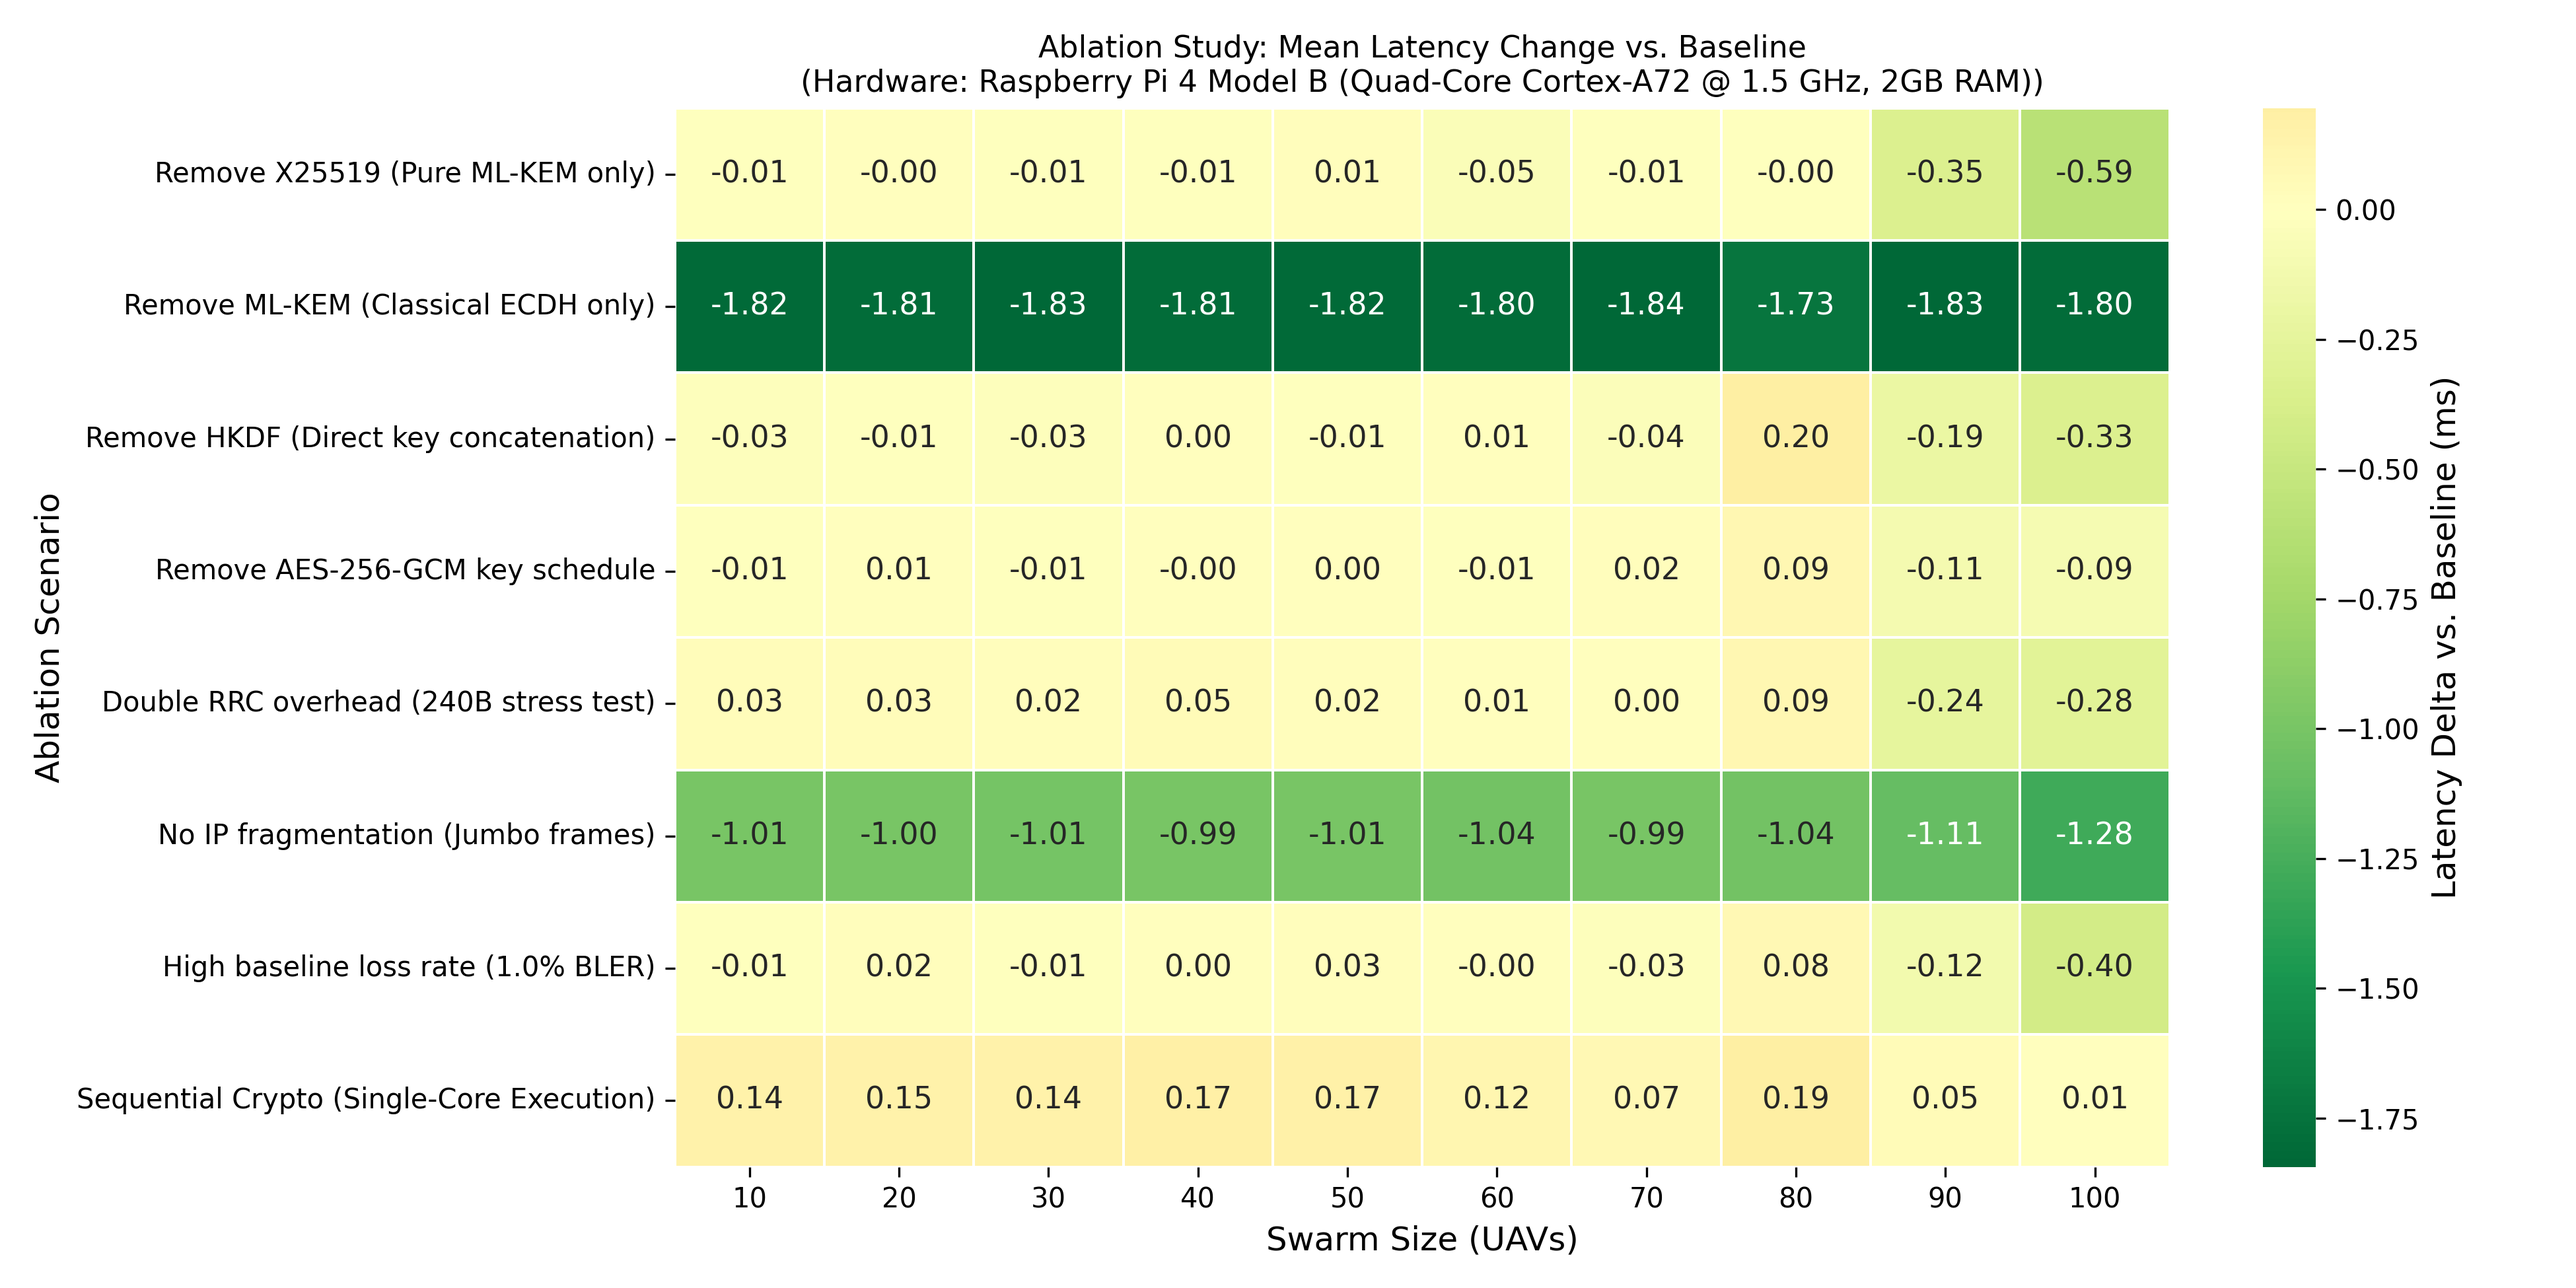
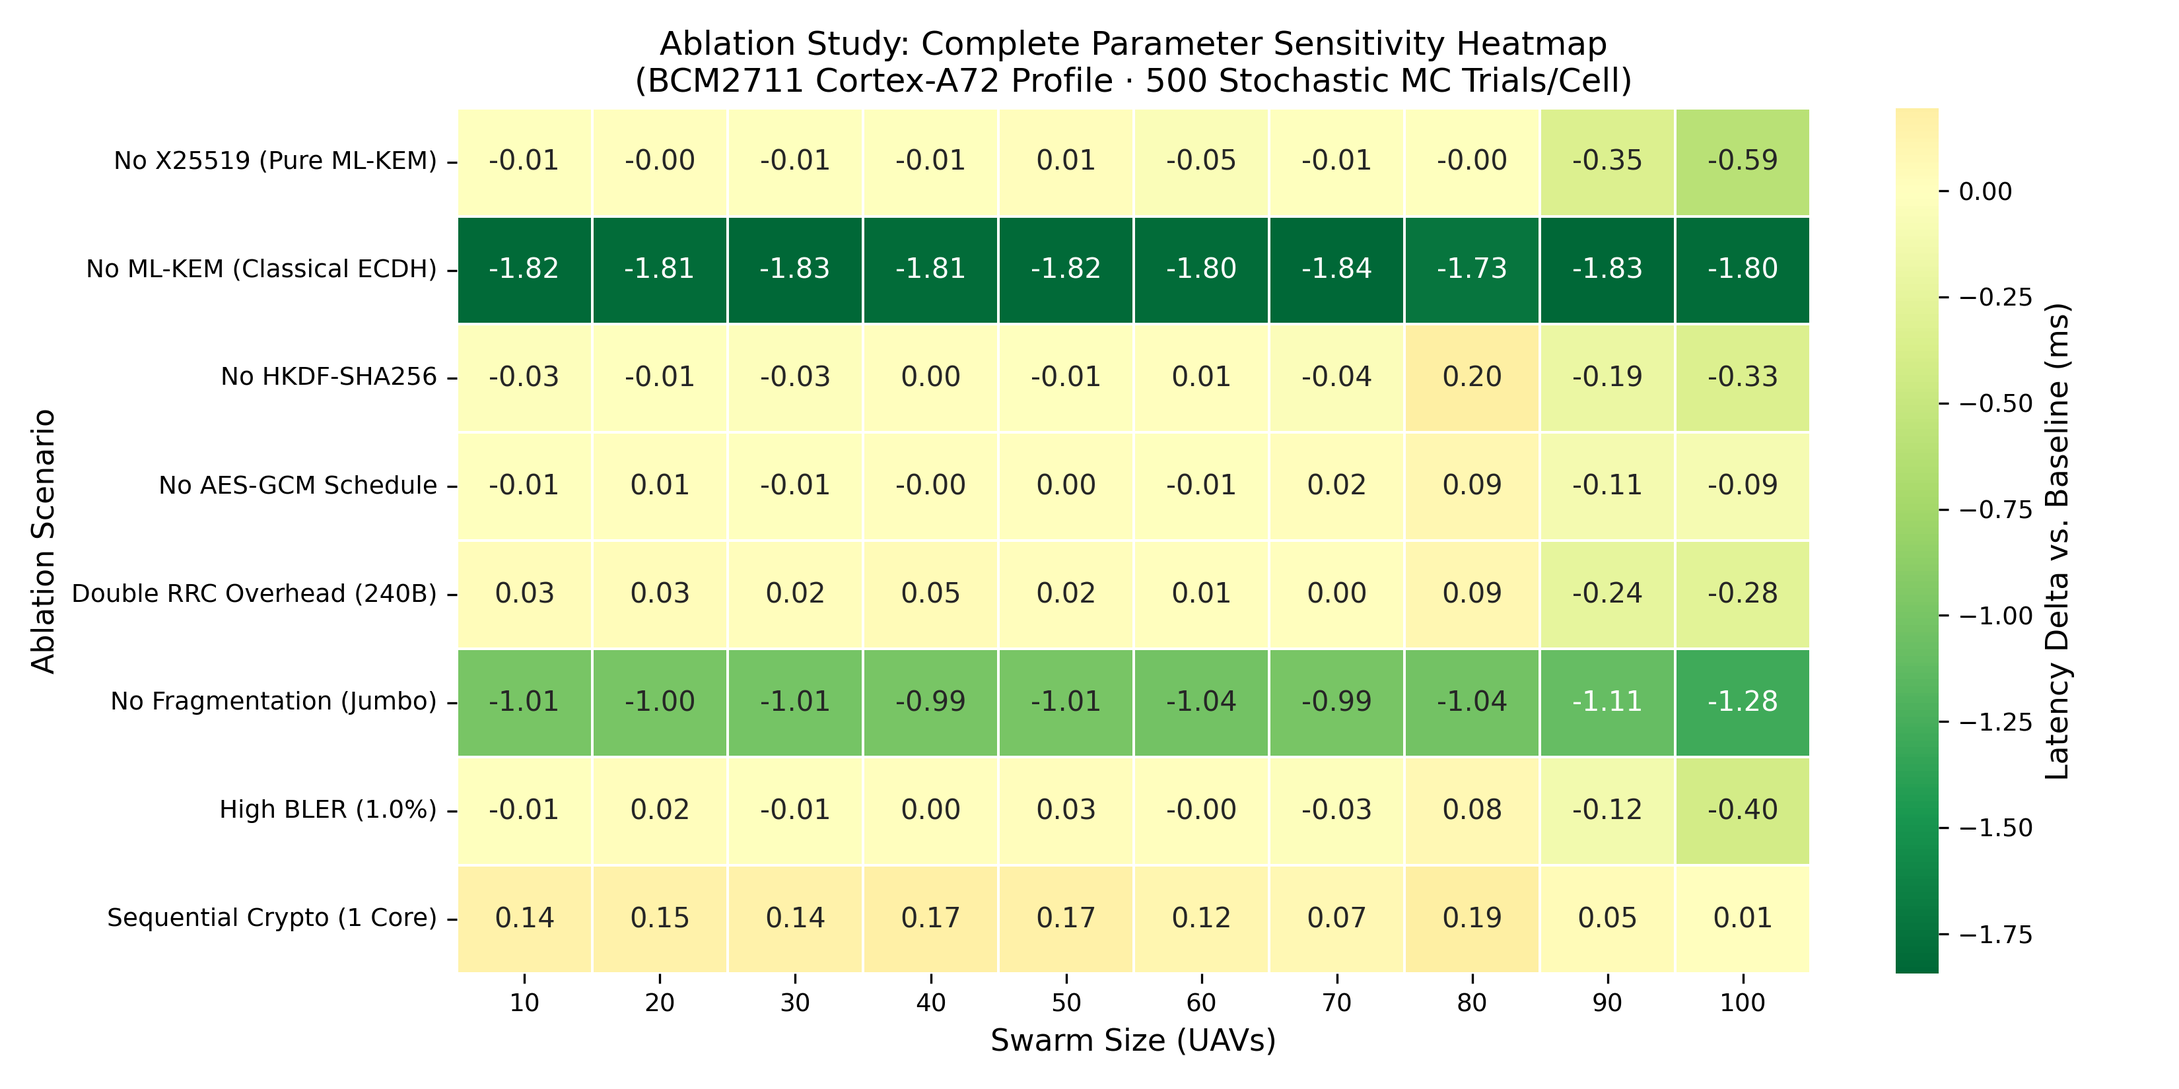
feat: dedicated suite of 8 individual ablation study publication plots

Changed region(s): [[0.0, 0.0309, 0.9676, 0.9891], [0.0312, 0.3091, 0.0624, 0.3709]]

diff --git a/scripts/generate_separate_ablation_plots.py b/scripts/generate_separate_ablation_plots.py
@@ -1,0 +1,282 @@
+import os
+import glob
+import pandas as pd
+import numpy as np
+import matplotlib
+matplotlib.use('Agg')
+import matplotlib.pyplot as plt
+import seaborn as sns
+
+# Configure IEEE publication style
+plt.rcParams.update({
+    'font.family': 'sans-serif',
+    'font.size': 10,
+    'axes.labelsize': 11,
+    'axes.titlesize': 12,
+    'xtick.labelsize': 9,
+    'ytick.labelsize': 9,
+    'legend.fontsize': 9,
+    'figure.titlesize': 13,
+    'figure.dpi': 150,
+    'savefig.dpi': 300,
+})
+
+BASE_DIR = os.path.dirname(os.path.abspath(__file__))
+PROJECT_DIR = os.path.join(BASE_DIR, '..')
+ABLATION_DIR = os.path.join(PROJECT_DIR, 'ablation_study')
+DATA_DIR = os.path.join(ABLATION_DIR, 'data')
+PLOT_DIR = os.path.join(ABLATION_DIR, 'plots')
+SUMMARY_CSV = os.path.join(DATA_DIR, 'ablation_summary.csv')
+
+os.makedirs(PLOT_DIR, exist_ok=True)
+
+# Colors and labels
+SCENARIO_META = {
+    'baseline': {'label': 'Full Hybrid System (Baseline)', 'color': '#1f77b4', 'ls': '-'},
+    'a1_no_ecdh': {'label': 'No X25519 (Pure ML-KEM)', 'color': '#ff7f0e', 'ls': '--'},
+    'a2_no_kyber': {'label': 'No ML-KEM (Classical ECDH)', 'color': '#2ca02c', 'ls': '-.'},
+    'a3_no_hkdf': {'label': 'No HKDF-SHA256', 'color': '#d62728', 'ls': ':'},
+    'a4_no_aes_setup': {'label': 'No AES-GCM Schedule', 'color': '#9467bd', 'ls': '--'},
+    'a5_double_rrc': {'label': 'Double RRC Overhead (240B)', 'color': '#8c564b', 'ls': '-.'},
+    'a6_no_fragmentation': {'label': 'No Fragmentation (Jumbo)', 'color': '#e377c2', 'ls': '-'},
+    'a7_high_loss': {'label': 'High BLER (1.0%)', 'color': '#7f7f7f', 'ls': ':'},
+    'a8_sequential_crypto': {'label': 'Sequential Crypto (1 Core)', 'color': '#bcbd22', 'ls': '--'},
+}
+
+def load_data():
+    df_summary = pd.read_csv(SUMMARY_CSV)
+    raw_data = {}
+    for sc in SCENARIO_META.keys():
+        p = os.path.join(DATA_DIR, sc, 'results_all_tiers.csv')
+        if os.path.exists(p):
+            raw_data[sc] = pd.read_csv(p)
+    return df_summary, raw_data
+
+def plot_01_latency_delta_bars(df_summary):
+    """Plot 1: Bar chart of latency deltas vs baseline across representative swarm sizes."""
+    pivot = df_summary.pivot(index='scenario_id', columns='swarm_size', values='mean_ms')
+    if 'baseline' not in pivot.index:
+        return
+    baseline_row = pivot.loc['baseline']
+    delta = pivot.subtract(baseline_row, axis=1).drop('baseline')
+    
+    selected_sizes = [20, 50, 80]
+    sub_delta = delta[selected_sizes]
+    
+    labels = [SCENARIO_META[sc]['label'] for sc in sub_delta.index]
+    x = np.arange(len(labels))
+    width = 0.25
+    
+    fig, ax = plt.subplots(figsize=(10, 5.5))
+    for i, size in enumerate(selected_sizes):
+        vals = sub_delta[size].values
+        ax.bar(x + (i - 1) * width, vals, width, label=f'{size} UAVs', alpha=0.9)
+        
+    ax.axhline(0, color='black', linewidth=0.8, linestyle='--')
+    ax.set_xticks(x)
+    ax.set_xticklabels(labels, rotation=35, ha='right')
+    ax.set_ylabel('Mean Latency Delta vs. Baseline (ms)')
+    ax.set_title('Ablation Study: Latency Impact of Architectural Components\n(Negative = Faster without component; Positive = Overhead introduced)')
+    ax.legend(title='Swarm Density')
+    ax.grid(axis='y', linestyle=':', alpha=0.6)
+    fig.tight_layout()
+    out = os.path.join(PLOT_DIR, '01_ablation_latency_delta_bars.png')
+    fig.savefig(out)
+    plt.close(fig)
+    print(f'[✓] Saved: {out}')
+
+def plot_02_scaling_curves(df_summary):
+    """Plot 2: Latency vs Swarm Size line plot for all 9 scenarios."""
+    fig, ax = plt.subplots(figsize=(9, 5.5))
+    for sc, meta in SCENARIO_META.items():
+        sub = df_summary[df_summary['scenario_id'] == sc].sort_values('swarm_size')
+        if sub.empty:
+            continue
+        ax.plot(sub['swarm_size'], sub['mean_ms'], label=meta['label'],
+                color=meta['color'], linestyle=meta['ls'], marker='o', markersize=4, linewidth=1.5)
+        
+    ax.axhline(10.0, color='red', linestyle='--', linewidth=1.2, label='URLLC 10ms Deadline')
+    ax.set_xlabel('Swarm Size (UAVs)')
+    ax.set_ylabel('Mean Handshake Latency (ms)')
+    ax.set_title('Ablation Study: Latency Scaling Across UAV Swarm Density (10–100 Nodes)')
+    ax.legend(loc='upper left', bbox_to_anchor=(1.02, 1), frameon=True)
+    ax.grid(True, linestyle=':', alpha=0.6)
+    fig.tight_layout()
+    out = os.path.join(PLOT_DIR, '02_ablation_scaling_curves.png')
+    fig.savefig(out)
+    plt.close(fig)
+    print(f'[✓] Saved: {out}')
+
+def plot_03_dual_vs_single_core(df_summary):
+    """Plot 3: Dedicated isolation of Dual-Core (Baseline) vs Single-Core (a8_sequential_crypto)."""
+    base = df_summary[df_summary['scenario_id'] == 'baseline'].sort_values('swarm_size')
+    seq = df_summary[df_summary['scenario_id'] == 'a8_sequential_crypto'].sort_values('swarm_size')
+    
+    fig, (ax1, ax2) = plt.subplots(1, 2, figsize=(11, 4.5))
+    
+    # Absolute latency
+    ax1.plot(base['swarm_size'], base['mean_ms'], 'o-', color='#1f77b4', label='Dual-Core (Parallel Pi 4)', linewidth=1.8)
+    ax1.plot(seq['swarm_size'], seq['mean_ms'], 's--', color='#d62728', label='Single-Core (Sequential Crypto)', linewidth=1.8)
+    ax1.set_xlabel('Swarm Size (UAVs)')
+    ax1.set_ylabel('Mean Handshake Latency (ms)')
+    ax1.set_title('Ablation: Dual-Core Speedup vs. Single-Core')
+    ax1.legend()
+    ax1.grid(True, linestyle=':', alpha=0.6)
+    
+    # Delta in microseconds
+    delta_us = (seq['mean_ms'].values - base['mean_ms'].values) * 1000.0
+    ax2.bar(base['swarm_size'], delta_us, width=6, color='#2ca02c', alpha=0.85)
+    ax2.axhline(145.0, color='darkred', linestyle='--', label='Theoretical Concurrency Gain (142 µs)')
+    ax2.set_xlabel('Swarm Size (UAVs)')
+    ax2.set_ylabel('Sequential Penalty (µs)')
+    ax2.set_title('Hardware Concurrency Saving on Cortex-A72')
+    ax2.legend()
+    ax2.grid(axis='y', linestyle=':', alpha=0.6)
+    
+    fig.tight_layout()
+    out = os.path.join(PLOT_DIR, '03_ablation_crypto_breakdown_dual_vs_single.png')
+    fig.savefig(out)
+    plt.close(fig)
+    print(f'[✓] Saved: {out}')
+
+def plot_04_fragmentation_penalty(df_summary):
+    """Plot 4: Multi-slot IP fragmentation penalty (Baseline vs a6_no_fragmentation)."""
+    base = df_summary[df_summary['scenario_id'] == 'baseline'].sort_values('swarm_size')
+    no_frag = df_summary[df_summary['scenario_id'] == 'a6_no_fragmentation'].sort_values('swarm_size')
+    
+    fig, ax = plt.subplots(figsize=(8, 4.8))
+    width = 3.5
+    ax.bar(base['swarm_size'] - width/2, base['mean_ms'], width=width, color='#1f77b4', label='Baseline (3-Slot Frag: 1568B ML-KEM)', alpha=0.9)
+    ax.bar(no_frag['swarm_size'] + width/2, no_frag['mean_ms'], width=width, color='#e377c2', label='No Fragmentation (Jumbo Frames)', alpha=0.9)
+    
+    ax.set_xlabel('Swarm Size (UAVs)')
+    ax.set_ylabel('Mean Handshake Latency (ms)')
+    ax.set_title('Ablation: Impact of Multi-Slot RLC/MAC Fragmentation\n(5G NR TTI = 0.5 ms per slot)')
+    ax.legend()
+    ax.grid(axis='y', linestyle=':', alpha=0.6)
+    fig.tight_layout()
+    out = os.path.join(PLOT_DIR, '04_ablation_fragmentation_penalty.png')
+    fig.savefig(out)
+    plt.close(fig)
+    print(f'[✓] Saved: {out}')
+
+def plot_05_pqc_vs_classical(df_summary):
+    """Plot 5: PQC Security Tax: Hybrid vs Pure Kyber vs Classical ECDH."""
+    base = df_summary[df_summary['scenario_id'] == 'baseline'].sort_values('swarm_size')
+    pure_k = df_summary[df_summary['scenario_id'] == 'a1_no_ecdh'].sort_values('swarm_size')
+    pure_c = df_summary[df_summary['scenario_id'] == 'a2_no_kyber'].sort_values('swarm_size')
+    
+    fig, ax = plt.subplots(figsize=(8.5, 5))
+    ax.plot(base['swarm_size'], base['mean_ms'], 'o-', color='#1f77b4', linewidth=2, label='Hybrid ML-KEM-1024 + X25519 (Quantum-Safe)')
+    ax.plot(pure_k['swarm_size'], pure_k['mean_ms'], '^--', color='#ff7f0e', linewidth=1.8, label='Pure ML-KEM-1024 (Post-Quantum Only)')
+    ax.plot(pure_c['swarm_size'], pure_c['mean_ms'], 's-.', color='#2ca02c', linewidth=1.8, label='Classical X25519 (Vulnerable to Shor\'s Algorithm)')
+    
+    ax.axhline(10.0, color='red', linestyle=':', linewidth=1.2, label='10ms URLLC Target')
+    ax.fill_between(base['swarm_size'], pure_c['mean_ms'], base['mean_ms'], color='#1f77b4', alpha=0.15, label='Post-Quantum Security Tax (~1.8 ms)')
+    
+    ax.set_xlabel('Swarm Size (UAVs)')
+    ax.set_ylabel('Mean Handshake Latency (ms)')
+    ax.set_title('Ablation: Post-Quantum Security Tax vs. Classical ECC')
+    ax.legend(loc='upper left')
+    ax.grid(True, linestyle=':', alpha=0.6)
+    fig.tight_layout()
+    out = os.path.join(PLOT_DIR, '05_ablation_pqc_vs_classical.png')
+    fig.savefig(out)
+    plt.close(fig)
+    print(f'[✓] Saved: {out}')
+
+def plot_06_cdf_distributions(raw_data):
+    """Plot 6: Empirical CDF of handshake latency at N=80 across scenarios."""
+    fig, ax = plt.subplots(figsize=(9, 5.2))
+    target_swarm = 80
+    
+    for sc, meta in SCENARIO_META.items():
+        if sc not in raw_data:
+            continue
+        sub = raw_data[sc][raw_data[sc]['swarm_size'] == target_swarm]
+        if sub.empty:
+            continue
+        vals = np.sort(sub['handshake_latency_ms'].values)
+        cdf = np.linspace(0, 1, len(vals))
+        ax.plot(vals, cdf, label=meta['label'], color=meta['color'], linestyle=meta['ls'], linewidth=1.6)
+        
+    ax.axvline(10.0, color='red', linestyle='--', linewidth=1.2, label='10ms URLLC Bound')
+    ax.set_xlabel('Handshake Latency (ms)')
+    ax.set_ylabel('Empirical Cumulative Probability (CDF)')
+    ax.set_title(f'Ablation: Handshake Latency CDF Distribution at High Density ({target_swarm} UAVs)')
+    ax.legend(loc='lower right', frameon=True)
+    ax.grid(True, linestyle=':', alpha=0.6)
+    fig.tight_layout()
+    out = os.path.join(PLOT_DIR, '06_ablation_cdf_distributions.png')
+    fig.savefig(out)
+    plt.close(fig)
+    print(f'[✓] Saved: {out}')
+
+def plot_07_heatmap(df_summary):
+    """Plot 7: Full 2D Ablation Latency Delta Heatmap."""
+    pivot = df_summary.pivot(index='scenario_id', columns='swarm_size', values='mean_ms')
+    if 'baseline' not in pivot.index:
+        return
+    baseline_row = pivot.loc['baseline']
+    delta = pivot.subtract(baseline_row, axis=1).drop('baseline')
+    
+    labels = [SCENARIO_META[sc]['label'] for sc in delta.index]
+    delta.index = labels
+    
+    fig, ax = plt.subplots(figsize=(11, 5.5))
+    sns.heatmap(delta, annot=True, fmt='.2f', cmap='RdYlGn_r',
+                center=0, linewidths=0.5, ax=ax,
+                cbar_kws={'label': 'Latency Delta vs. Baseline (ms)'})
+    ax.set_xlabel('Swarm Size (UAVs)')
+    ax.set_ylabel('Ablation Scenario')
+    ax.set_title('Ablation Study: Complete Parameter Sensitivity Heatmap\n(BCM2711 Cortex-A72 Profile · 500 Stochastic MC Trials/Cell)')
+    fig.tight_layout()
+    out = os.path.join(PLOT_DIR, '07_ablation_heatmap.png')
+    fig.savefig(out)
+    plt.close(fig)
+    print(f'[✓] Saved: {out}')
+
+def plot_08_p99_urllc(df_summary):
+    """Plot 8: P99 Tail Latency Scaling vs 10ms URLLC Boundary."""
+    fig, ax = plt.subplots(figsize=(9, 5.2))
+    for sc in ['baseline', 'a1_no_ecdh', 'a2_no_kyber', 'a6_no_fragmentation', 'a8_sequential_crypto']:
+        meta = SCENARIO_META[sc]
+        sub = df_summary[df_summary['scenario_id'] == sc].sort_values('swarm_size')
+        if sub.empty:
+            continue
+        ax.plot(sub['swarm_size'], sub['p99_ms'], label=meta['label'] + ' (P99)',
+                color=meta['color'], linestyle=meta['ls'], marker='s', markersize=4, linewidth=1.6)
+        
+    ax.axhline(10.0, color='red', linestyle='--', linewidth=1.5, label='3GPP URLLC Bound (10 ms)')
+    ax.set_xlabel('Swarm Size (UAVs)')
+    ax.set_ylabel('P99 Tail Latency (ms)')
+    ax.set_title('Ablation: P99 Tail Latency and URLLC Compliance Horizon')
+    ax.legend(loc='upper left')
+    ax.grid(True, linestyle=':', alpha=0.6)
+    fig.tight_layout()
+    out = os.path.join(PLOT_DIR, '08_ablation_p99_urllc_compliance.png')
+    fig.savefig(out)
+    plt.close(fig)
+    print(f'[✓] Saved: {out}')
+
+def main():
+    print("=================================================================")
+    print("  GENERATING SEPARATE PUBLICATION-QUALITY ABLATION PLOTS (300 DPI)")
+    print("=================================================================")
+    df_summary, raw_data = load_data()
+    print(f"Loaded summary: {len(df_summary)} rows across {df_summary['scenario_id'].nunique()} scenarios")
+    print(f"Loaded raw data for {len(raw_data)} scenarios ({sum(len(d) for d in raw_data.values())} total trials)")
+    
+    plot_01_latency_delta_bars(df_summary)
+    plot_02_scaling_curves(df_summary)
+    plot_03_dual_vs_single_core(df_summary)
+    plot_04_fragmentation_penalty(df_summary)
+    plot_05_pqc_vs_classical(df_summary)
+    plot_06_cdf_distributions(raw_data)
+    plot_07_heatmap(df_summary)
+    plot_08_p99_urllc(df_summary)
+    
+    print("\n>>> ALL 8 INDIVIDUAL ABLATION PLOTS GENERATED SUCCESSFULLY!")
+
+if __name__ == '__main__':
+    main()
